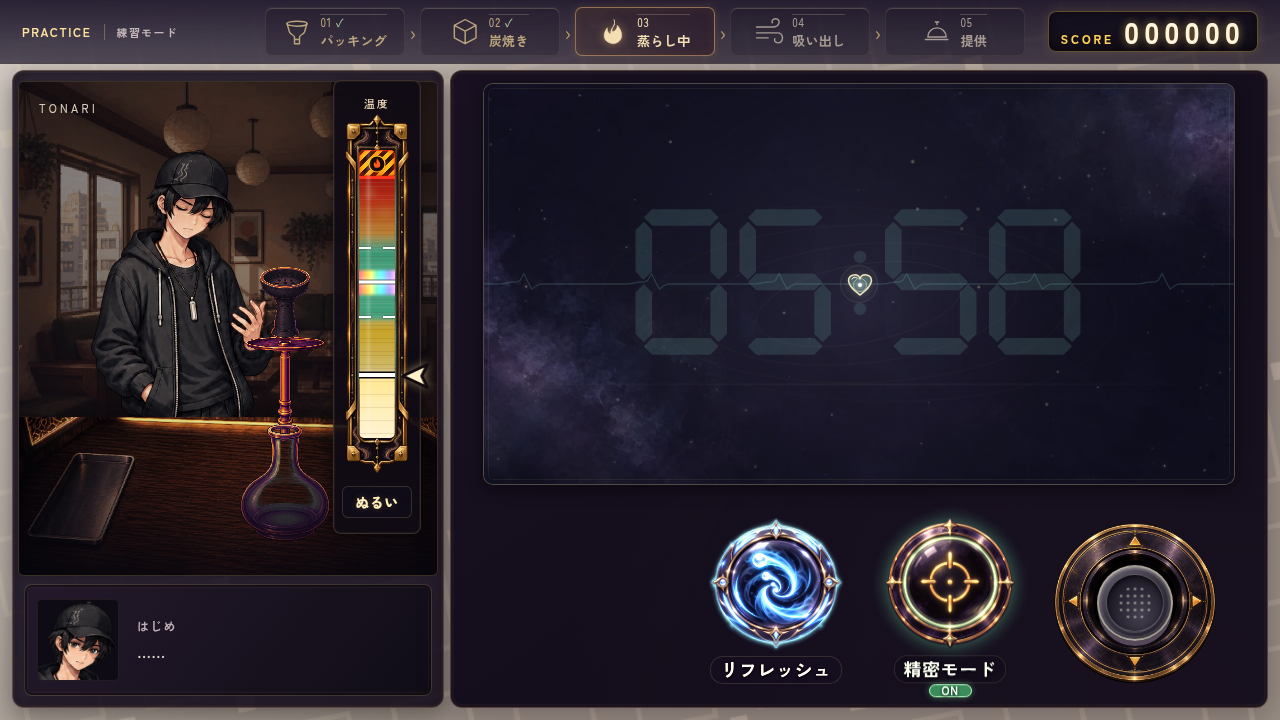
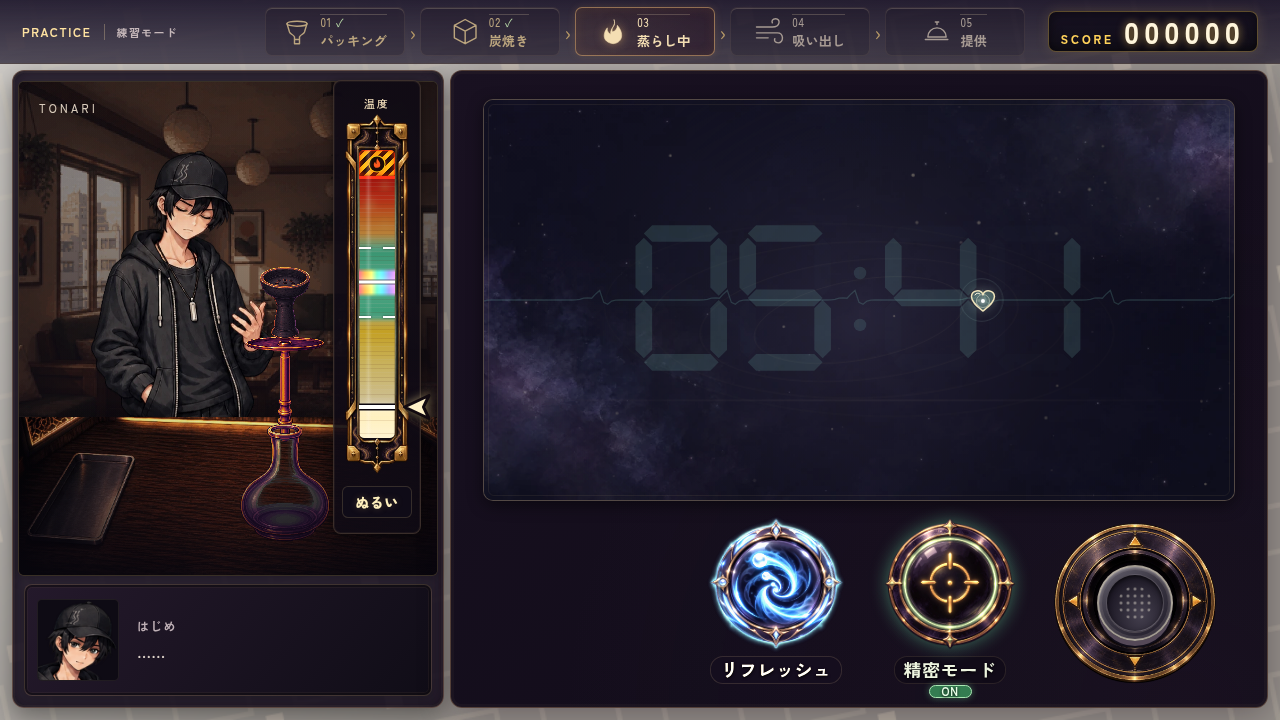
Give steam dodge more top space and use Hajime inner thoughts

diff --git a/remake/js/craft/steam.js b/remake/js/craft/steam.js
@@ -16,12 +16,13 @@ import { makingUrl } from "../core/data.js";
 import { buildMentalTrace } from "./mental.js";
 import { craftCondition } from "../core/condition.js";
 
+// 雑念ははじめ自身の内心。自主練でも、その場に他の人物がいる前提にしない。
 export const DODGE_WORDS = [
-  "手元、見られてる……", "時間が足りないかも", "隣の煙、もう上がってる",
-  "失敗したらどうしよう", "パッキーの野次", "審査員の視線", "炭、熾きてたかな",
-  "詰めすぎたか？", "灰、落ちないか", "客の咳ばらい", "温度、大丈夫か",
-  "香り、飛んでないか", "手が、汗ばむ", "時計の秒針", "深呼吸、わすれてた",
-  "ボウル、熱いな", "煙、薄い気がする", "スミさんなら……", "隣の水音",
+  "ちゃんと熱、入ってるかな", "時間が足りないかも", "少し急ぎすぎたかな",
+  "失敗したらどうしよう", "うまく作れるかな", "詰め方、これでよかった？", "炭、熾きてたかな",
+  "詰めすぎたか？", "灰、落ちないか", "穴、足りてたかな", "温度、大丈夫か",
+  "香り、飛んでないか", "手が、汗ばむ", "時間ばかり気になる", "深呼吸、わすれてた",
+  "熱、強すぎないかな", "煙、ちゃんと出るかな", "さっきの手順、大丈夫か", "吸い出しで崩したくない",
 ];
 const OBJECTS = ["coal", "orb", "orb", "smoke"];
 

diff --git a/remake/css/steam.css b/remake/css/steam.css
@@ -41,8 +41,8 @@
 .steam .dodge-controls { align-self: center; margin-right: 0; }
 .steam-play, .dodge-controls { width: 752px; }
 .steam-play { flex: 1; display: grid; justify-items: center; align-items: start; }
-/* 上の余白を詰め、操作欄の上に指を置ける空間を残す。 */
-.steam-play > .dodge { top: 0; }
+/* 上に少し余裕を取り、操作欄との間隔も残す。 */
+.steam-play > .dodge { top: 16px; }
 /* 残り時間は視線を弾幕から離さず読める、奥の薄い7セグ。 */
 .dodge .dodge-timer { position: absolute; left: 50%; top: 50%; width: 448px; height: 158px; transform: translate(-50%, -50%); color: var(--mental-ink); opacity: .16; z-index: 1; pointer-events: none; user-select: none; transition: color .25s ease; }
 .dodge { --mental-ink: #86d6c5; }

diff --git a/docs/owner_requests.md b/docs/owner_requests.md
@@ -80,6 +80,8 @@
 | SF44 | ✅ `7eea31e` | 各工程の名前を工程アイコン・番号・今の工程を示すヘッダーへ移す。右パネルの蒸らし・吸い出し等の見出しを外し、ゲーム領域を縦へ広げる。 |
 | SF45 | — 後続の範囲指定で除外 | 初案のタイマー拡大・当たり判定1.3倍・精密時の判定表示・温度表示の言い換え・温度連動背景。後続の明示的な変更禁止範囲を優先し、今回は現行を維持する。色連動と工程ヘッダーは、その後の追加指示SF43・44として実施する。 |
 | SF46 | ✅ `40b3e1b` | 工程ヘッダーのパッキングのアイコンを、シンプルなハガルのマークへ変更する。 |
+| SF47 | 🔧 | 弾幕の上が詰まりすぎているので、少し余白を作る。 |
+| SF48 | 🔧 | パッキーがいないのに「パッキーの野次」等が出る矛盾を直す。雑念の言葉は、はじめの心の声にする。 |
 
 SF46は `40b3e1b`。口の広い器と細い脚のシンプルなSVGへ変更し、PC1280×720・スマホ844×390でアクティブ／完了の表示を目視確認。ページエラーなし、JS構文と差分空白は正常。[アイコンと更新画面](../asset_sources/steam-controls-20261011/README.md)を保存し、PR #282へ追加。
 
